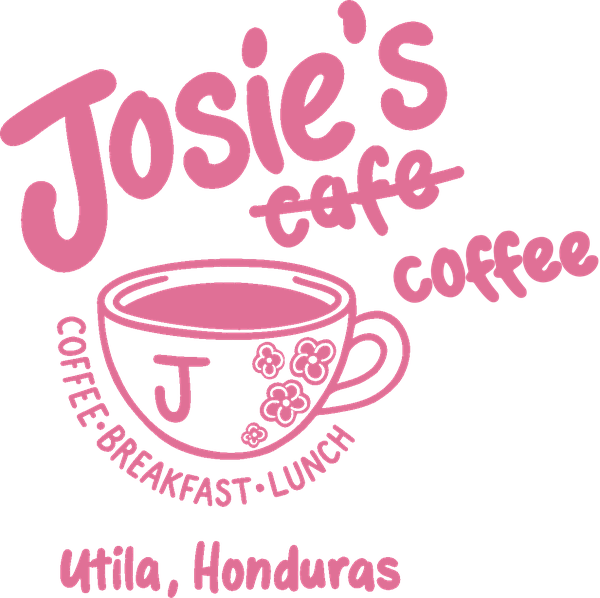
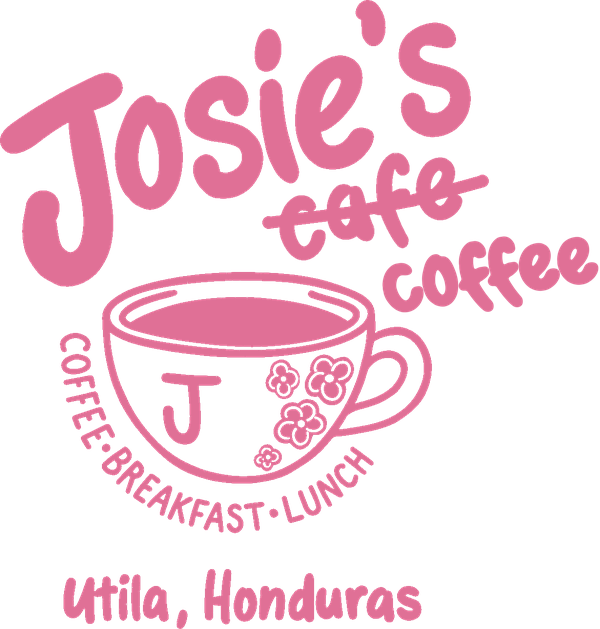
Coffee placed with equal gaps to cafe, handle and cup
Claude-Session: https://claude.ai/code/session_01CfMf1e5BZZ6SoDWNVf6q1k

diff --git a/tools/art/make_coffee_logo.py b/tools/art/make_coffee_logo.py
@@ -3,7 +3,8 @@ import sys, numpy as np
 from PIL import Image, ImageDraw, ImageFilter
 from scipy import ndimage as ndi
 SRC,OUT=sys.argv[1],sys.argv[2]; MARK=len(sys.argv)>3
-SS=3; CS=0.66; CA=9; VS=1.0; XS=1.12; CAFE=0.88; WID=1500; AX,AY=848,752
+SS=3; CS=0.66; CA=9; VS=1.0; XS=1.12; CAFE=0.88; WID=1500; import os
+AX,AY=int(os.environ.get('AX',786)),int(os.environ.get('AY',740))
 LOGO=(255,162,200); ROSE=(181,85,115); COL=LOGO if MARK else ROSE
 im=Image.open(SRC).convert('RGBA'); A=np.array(im); al=A[:,:,3]
 lab,n=ndi.label(al>200)
@@ -54,5 +55,7 @@ d=ImageDraw.Draw(can); P=[(566,562),(724,542),(845,519),(983,481)]
 d.line(P,fill=COL+(255,),width=24,joint='curve')
 for x,y in (P[0],P[-1]): d.ellipse([x-12,y-12,x+12,y+12],fill=COL+(255,))
 s=word('coffee',CS,2); r=s.rotate(CA,resample=Image.BICUBIC,expand=True); r=r.resize((r.width//SS,r.height//SS),Image.LANCZOS); bb=r.getbbox()
+if os.environ.get('DUMP'):
+    np.save('cof.npy',np.array(r.split()[3])[bb[1]:bb[3],bb[0]:bb[2]]); np.save('rest.npy',np.array(can.split()[3]))
 can.alpha_composite(r,(AX-bb[0],AY-bb[3])); print('coffee',bb)
 can.save(OUT)
